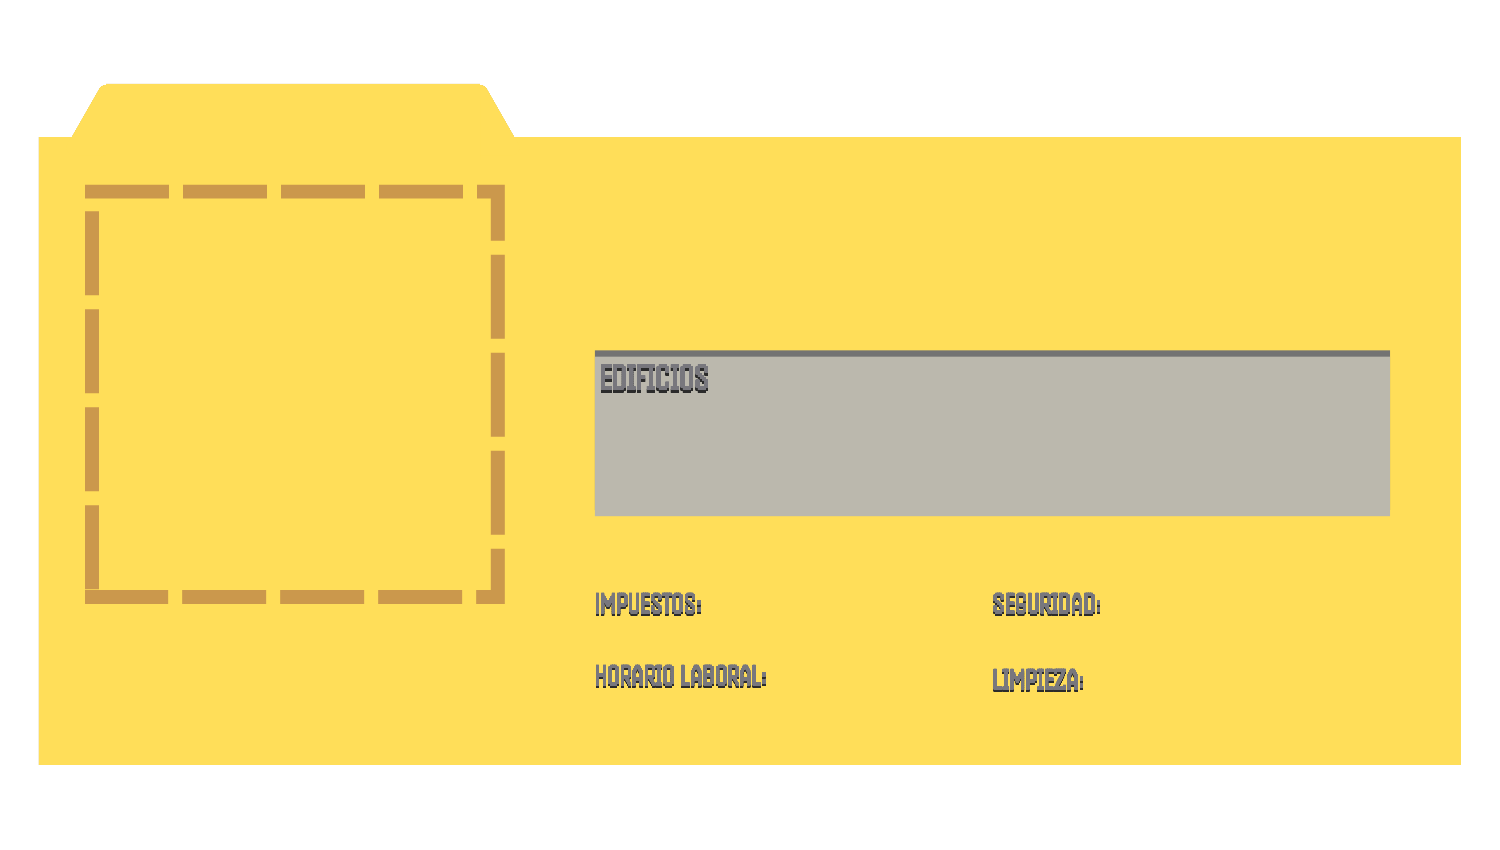
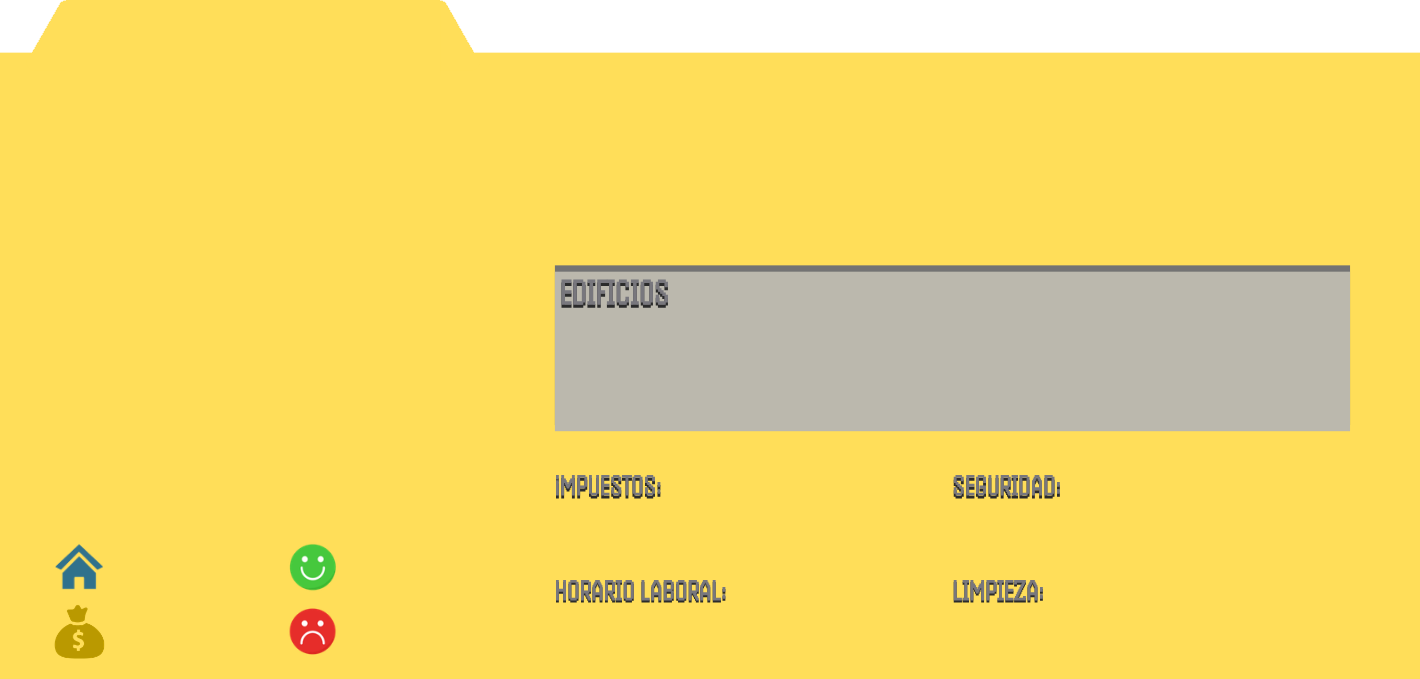
small fix

diff --git a/src/scene/districtScene.js b/src/scene/districtScene.js
@@ -182,7 +182,7 @@ export default class DistrictScene extends Phaser.Scene {
     }
     //
     spawnTemplate(newWidth, newHeight, offsetX, offsetY) {
-        return this.add.image(newWidth / 2 + offsetX, newHeight / 2 + offsetY, 'districtBase').setDisplaySize(newWidth, newHeight);
+        return this.add.image(newWidth / 2 + offsetX, newHeight / 2 + offsetY, 'districtTemplate').setDisplaySize(newWidth, newHeight);
     }
     spawnNameText(offsetX, offsetY) {
         const leftCorner = offsetX*3 - 40;
@@ -271,13 +271,12 @@ export default class DistrictScene extends Phaser.Scene {
             const y = newHeight - newHeight / 2;
             const img = this.add.image(x, y + 35, building.getBuildingPNG()).setOrigin(0.5, 0.5).setScale(1.4).setInteractive();
 
-            img.on('pointerover', (pointer) => {
+            img.on('pointerover', () => {
                 tooltip.setText(building.getBuildingInfo());
-                tooltip.setPosition(pointer.x + 10, pointer.y + 10);
+                tooltip.setPosition(720, newHeight - newHeight/2 - 55);
                 tooltip.setVisible(true);
                 tooltip.setDepth(100);
             });
-            img.on('pointermove', (pointer) => {tooltip.setPosition(pointer.x + 15, pointer.y + 35);});
             img.on('pointerout', () => {tooltip.setVisible(false);});
         }
 
@@ -286,15 +285,15 @@ export default class DistrictScene extends Phaser.Scene {
     // BUTTONS
     spawnStoreButton(newHeight, positionX) {
         const tooltip = this.add.text(0, 0, '', {
-            fontSize: '14px',
+            fontSize: '16px',
             backgroundColor: '#000',
             color: '#fff',
             padding: { x: 5, y: 5 }
         }).setVisible(false);
         this.storeButton = this.add.image(positionX, newHeight - newHeight/2 + 35,'storeIcon').setScale(1.3).setOrigin(0.5,0.5).setInteractive({ useHandCursor: true }); 
-        this.storeButton.on('pointerover', (pointer) => {
-            tooltip.setText('Dale al boton si quieres ir al mercado de EDIFICIOS');
-            tooltip.setPosition(pointer.x + 15, pointer.y + 35);
+        this.storeButton.on('pointerover', () => {
+            tooltip.setText(`Dale al boton si quieres ir al mercado de EDIFICIOS(${this.district.getSpaceBuildingBuilt()}/${this.district.getSpaceBuilding()})`);
+            tooltip.setPosition(740, newHeight - newHeight/2 - 45);
             tooltip.setVisible(true);
             tooltip.setDepth(50);
             this.storeButton.setScale(1.5);
@@ -306,8 +305,8 @@ export default class DistrictScene extends Phaser.Scene {
         this.storeButton.on('pointerup', () => {
             if(this.tutorial) this.containerStore.destroy();
             if(this.district.getSpaceBuildingBuilt() === this.district.getSpaceBuilding()) {
-                tooltip.setText('No puedes comprar mas EDIFICIOS, el distrito ya esta lleno');
-                tooltip.setPosition(pointer.x + 15, pointer.y + 35);
+                tooltip.setText(`Distrito lleno(${this.district.getSpaceBuildingBuilt()}/${this.district.getSpaceBuilding()})`);
+                tooltip.setPosition(740, newHeight - newHeight/2 - 45);
                 tooltip.setVisible(true);
                 tooltip.setDepth(100);
             }else{
@@ -358,23 +357,12 @@ export default class DistrictScene extends Phaser.Scene {
     }
     createButton(x, y, image, swapImage,callback) {
         const button = this.add.image(x, y, image).setScale(1);
-        const tooltip = this.add.text(0, 0, '', {
-            fontSize: '14px',
-            backgroundColor: '#000',
-            color: '#fff',
-            padding: { x: 5, y: 5 }
-        }).setVisible(false);
         button.setInteractive({ useHandCursor: true });
-        button.on('pointerover', (pointer) => {
-            tooltip.setText('Precio al pulsar: $ 5000');
-            tooltip.setPosition(pointer.x + 15, pointer.y + 35);
-            tooltip.setVisible(true);
-            tooltip.setDepth(100);
+        button.on('pointerover', () => {
             button.setScale(1.1);
             button.setTexture(swapImage);
         });
         button.on('pointerout', () => {
-            tooltip.setVisible(false);
             button.setScale(1); 
             button.setTexture(image);
         });
@@ -386,7 +374,6 @@ export default class DistrictScene extends Phaser.Scene {
         });
         return button;
     }
-
     spawnTaxesButton(newWidth, offsetX, newHeight, offsetY){
         this.botonAumentar = this.createButton(
             newWidth - offsetX*7 + 10, 

diff --git a/src/boot.js b/src/boot.js
@@ -18,7 +18,6 @@ import map from '../assets/map/mapTemplate.png'
 
 // DISTRICT SCENE ASSETS
 import districtTemplate from '../assets/map/districtScenes/districtTemplate.png'
-import districtBase from '../assets/map/districtScenes/districtBase.png'
 import districtStoreTemplate from '../assets/map/districtScenes/districtStoreTemplate.png'                    //NEED TO BE REPLACE
 import districtBorrascalScene1 from '../assets/map/districtScenes/districtBorrascalScene1.png'                //NEED TO BE REPLACE
 import districtElNidoScene1 from '../assets/map/districtScenes/districtElNidoScene1.png'                      //NEED TO BE REPLACE
@@ -190,7 +189,6 @@ export default class Boot extends Phaser.Scene {
     this.load.image('map', map);
     // DISTRICT SCENES ASSETS
     this.load.image('districtTemplate', districtTemplate);
-    this.load.image('districtBase', districtBase);
     this.load.image('districtStoreTemplate', districtStoreTemplate);
     this.load.image('districtBorrascalScene1', districtBorrascalScene1);
     this.load.image('districtElNidoScene1', districtElNidoScene1);
